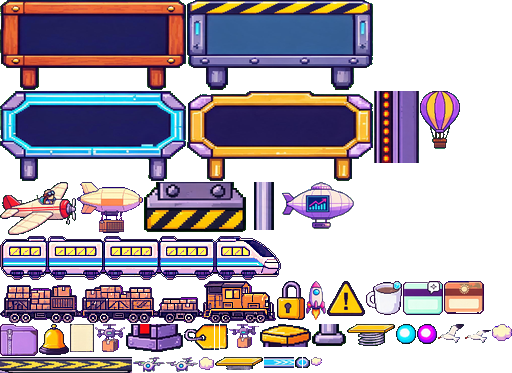
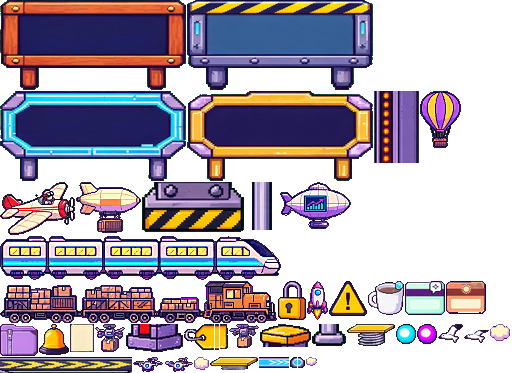
Clean the white rims off the moving props
The movers were painted with a pale line outside their dark outline, which showed as
a white ring once the ground was keyed out. Peel light pixels off each cut-out's rim
until the dark outline is reached, and bring the plane, airships, balloon, drones,
couriers, rocket and gull down the same way as the trains, with a dark violet edge.

Claude-Session: https://claude.ai/code/session_01TySN1cNevy2HFj41ARkqbS

Changed region(s): [[0.0, 0.4718, 0.9688, 1.0], [0.8125, 0.2359, 0.9062, 0.4129], [0.8438, 0.8552, 1.0, 0.9142]]

diff --git a/src/assets.js b/src/assets.js
@@ -1,1 +1,1 @@
[2 lines of base64/hex data omitted]

diff --git a/tools/build-art-kit.py b/tools/build-art-kit.py
@@ -387,13 +387,13 @@ def cloth(sheet, box, height):
 
 
 def alley_traffic():
-    sheet = matte(Image.open(SRC / 'alley-movers.png'), keep_marks=True)
+    sheet = dehaloed(matte(Image.open(SRC / 'alley-movers.png'), keep_marks=True))
     logo = marks(sheet)[1]
-    plane = cut(sheet, (240, 90, 910, 560), width=76)
+    plane = crisp(sheet.crop((240, 90, 910, 560)), 51, colours=64)
     banner, banner_meta = cloth(sheet, (1150, 110, 2290, 560), 28)
     basket = balloon(sheet, (1730, 850, 2130, 1420))
     # One gull, wings up; for the second beat of its wings the upper half is pressed flat.
-    gull = cut(sheet, (390, 910, 810, 1225), width=26)
+    gull = crisp(sheet.crop((390, 910, 810, 1225)), 17, colours=64)
     body = gull.height * 11 // 19
     glide = Image.new('RGBA', gull.size)
     glide.paste(sized(gull.crop((0, 0, gull.width, body)), width=gull.width, height=body // 2), (0, body - body // 2))
@@ -403,7 +403,7 @@ def alley_traffic():
         'banner': banner,
         'gull_0': gull,
         'gull_1': glide,
-        'balloon': sized(trim(basket)[0], width=40),
+        'balloon': crisp(basket, 56, colours=64),
     }
     # The tow rope leaves the plane at its tail, halfway down the fin's root.
     tail = np.where(np.asarray(plane)[..., 3][:, :6].any(axis=1))[0]
@@ -599,6 +599,27 @@ def shaved(im, tinted, depth=8):
     return Image.fromarray(data, 'RGBA')
 
 
+def dehaloed(im, depth=8, light=150):
+    """A cut-out with the pale rim taken off. The movers were painted with a dark outline and a thin
+    white or cream line outside it, like a sticker's edge, which shows as a white ring once the
+    ground is gone. Light pixels are peeled off the rim a ring at a time, which stops at the dark
+    outline; where a sprite has no such rim nothing is taken."""
+    data = np.asarray(im).copy()
+    for _ in range(depth):
+        solid = data[..., 3] > 0
+        inside = solid.copy()
+        for axis in (0, 1):
+            for step in (1, -1):
+                inside &= np.roll(solid, step, axis=axis)
+        rgb = data[..., :3].astype(np.int32)
+        level = (rgb[..., 0] * 3 + rgb[..., 1] * 6 + rgb[..., 2]) // 10
+        gone = solid & ~inside & ((level > light) | (data[..., 3] < 200))
+        if not gone.any():
+            break
+        data[gone, 3] = 0
+    return Image.fromarray(data, 'RGBA')
+
+
 def unpinked(im, lead=45):
     """The magenta ground's cast taken out of a cut-out: wherever red and blue both stand well clear
     of green (nothing painted in Ship It City is that colour), they are brought down to it."""
@@ -650,16 +671,17 @@ CITY = {'far': -70, 'near': 7, 'haze': (250, 350)}
 
 
 def city_traffic():
-    sheet = matte(Image.open(SRC / 'city-movers.png'), keep_marks=True)
+    soft = matte(Image.open(SRC / 'city-movers.png'), keep_marks=True)
+    sheet = dehaloed(soft)
     frames = {
-        'airship': cut(sheet, (280, 170, 950, 695), width=66),
-        'drone_0': cut(sheet, (1256, 208, 1724, 584), width=30),
-        'drone_1': cut(sheet, (1868, 192, 2272, 568), width=30),
+        'airship': crisp(sheet.crop((280, 170, 950, 695)), 49, colours=64),
+        'drone_0': crisp(sheet.crop((1256, 208, 1724, 584)), 22, colours=64),
+        'drone_1': crisp(sheet.crop((1868, 192, 2272, 568)), 26, colours=64),
         # A faint line is drawn under the wheels: the train stops just above it.
         'freight': crisp(sheet.crop((284, 744, 2284, 1040)), 40),
-        'puff_0': cut(sheet, (308, 1204, 472, 1340), width=11),
-        'puff_1': cut(sheet, (500, 1164, 704, 1340), width=15),
-        'puff_2': cut(sheet, (732, 1104, 1004, 1336), width=20),
+        'puff_0': cut(soft, (308, 1204, 472, 1340), width=11),
+        'puff_1': cut(soft, (500, 1164, 704, 1340), width=15),
+        'puff_2': cut(soft, (732, 1104, 1004, 1336), width=20),
     }
     return frames, {}
 
@@ -708,7 +730,7 @@ def growth_layers():
 
 def growth_traffic():
     green = lambda r, g, b: (g > r + 24) & (g > b + 24)
-    sheet = shaved(matte(Image.open(SRC / 'growth-movers.png'), keep_marks=True), green)
+    sheet = dehaloed(shaved(matte(Image.open(SRC / 'growth-movers.png'), keep_marks=True), green))
     # Three carriages make a short train, so the middle one rides three times.
     train, box = trim(sheet.crop((640, 716, 2400, 1184)))
     first, second = 1140 - 640 - box[0], 1712 - 640 - box[0]
@@ -718,10 +740,10 @@ def growth_traffic():
         long.paste(train.crop((first, 0, second, train.height)), (first + i * (second - first), 0))
     long.paste(train.crop((second, 0, train.width, train.height)), (second + 2 * (second - first), 0))
     frames = {
-        'screenship': cut(sheet, (180, 64, 1028, 628), width=72),
-        'courier_0': cut(sheet, (1128, 200, 1764, 504), width=32),
-        'courier_1': cut(sheet, (1848, 204, 2456, 504), width=32),
-        'rocket': cut(sheet, (84, 668, 456, 1380), width=20),
+        'screenship': crisp(sheet.crop((180, 64, 1028, 628)), 45, colours=64),
+        'courier_0': crisp(sheet.crop((1128, 200, 1764, 504)), 13, colours=64),
+        'courier_1': crisp(sheet.crop((1848, 204, 2456, 504)), 13, colours=64),
+        'rocket': crisp(sheet.crop((84, 668, 456, 1380)), 37, colours=64),
         'maglev': crisp(long, 42),
     }
     return frames, {}

diff --git a/assets/source/kit/README.md b/assets/source/kit/README.md
@@ -54,6 +54,11 @@ What the tool changes on the way in, and why:
   out.
 - Train sprites are averaged down rather than resampled, sharpened, held to 28 colours and ringed
   with a dark violet outline, so they stay crisp at game size.
+- The movers were painted with a thin white or cream line outside their dark outline, like a
+  sticker's edge, which showed as a white ring in the game. Light pixels are peeled off each
+  cut-out's rim until the dark outline is reached. The plane, airship, chart airship, balloon,
+  drones, couriers, rocket and gull are then brought down the same way as the trains (64 colours),
+  so every mover has the same dark violet edge.
 - A scrap of a building painted into Ship It City's clouds is painted out.
 - Growth Run's train is three carriages long as drawn. Its middle carriage rides three times.
 - Cut-outs with a green rim from the ground colour have it shaved off.
